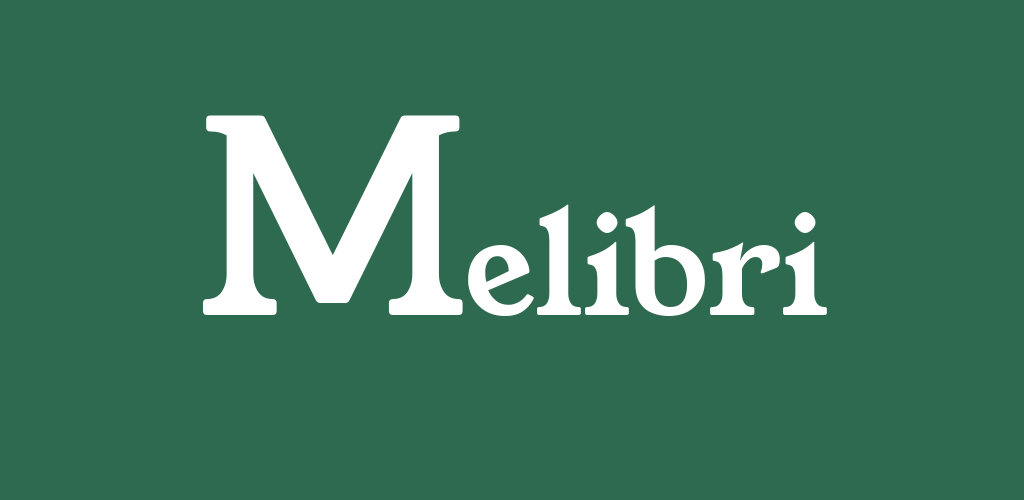
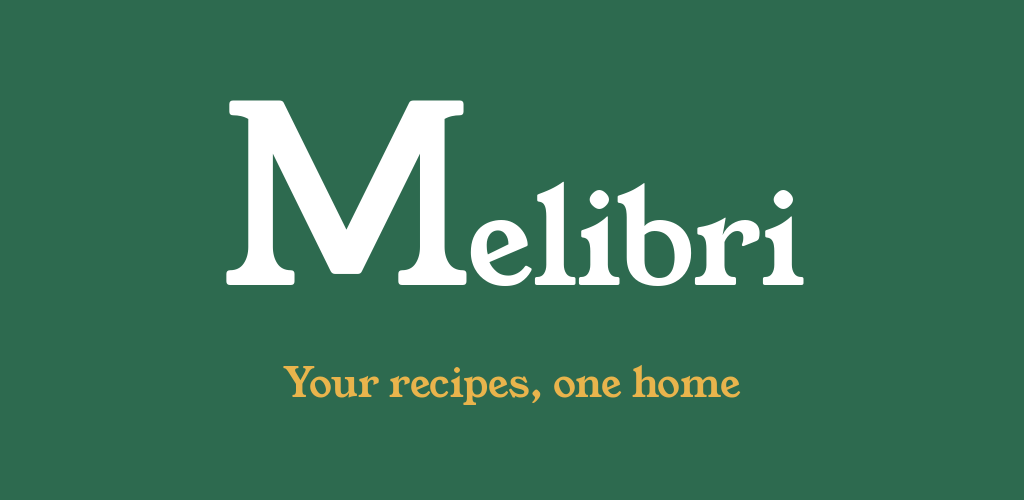
Tagline: 'Your recipes, one home'
Replaces 'my recipe kitchen', which named three nouns without saying
what the app does - it could as easily have been a meal kit or a
cookware shop - and used 'my' in places where the reader is a stranger,
not the user narrating.

Applied everywhere it lives: APP_TAGLINE, all four site pages, the page
title and og:title, the store listing, and both graphics.

Set in sentence case after the comma. 'One' capitalised mid-sentence
reads as a typo rather than a style choice; say if you want it back.

Claude-Session: https://claude.ai/code/session_01St2zqu9cTTQSds7HkwwN9c

Changed region(s): [[0.1875, 0.18, 0.8125, 0.63], [0.2812, 0.72, 0.7188, 0.81]]

diff --git a/site/index.html b/site/index.html
@@ -3,7 +3,7 @@
 <head>
 <meta charset="utf-8">
 <meta name="viewport" content="width=device-width, initial-scale=1">
-<title>Melibri - my recipe kitchen</title>
+<title>Melibri - Your recipes, one home</title>
 <meta name="description" content="Melibri collects the recipes you actually cook - saved from the web, scanned out of a cookbook, or written from scratch.">
 
 <link rel="icon" type="image/png" href="/favicon.png">
@@ -11,7 +11,7 @@
 
 <meta property="og:type" content="website">
 <meta property="og:site_name" content="Melibri">
-<meta property="og:title" content="Melibri - my recipe kitchen">
+<meta property="og:title" content="Melibri - Your recipes, one home">
 <meta property="og:description" content="Melibri collects the recipes you actually cook - saved from the web, scanned out of a cookbook, or written from scratch.">
 <meta property="og:url" content="https://melibri.app/">
 <meta property="og:image" content="https://melibri.app/og.png">
@@ -27,7 +27,7 @@
 <header class="site">
   <div class="inner">
     <a class="brand" href="/">Melibri</a>
-    <div class="tagline">my recipe kitchen</div>
+    <div class="tagline">Your recipes, one home</div>
   </div>
 </header>
 

diff --git a/src/constants/app.js b/src/constants/app.js
@@ -18,7 +18,7 @@ import Constants from 'expo-constants';
 import { Platform } from 'react-native';
 
 export const APP_NAME = 'Melibri';
-export const APP_TAGLINE = 'my recipe kitchen';
+export const APP_TAGLINE = 'Your recipes, one home';
 
 /**
  * Version comes from app.json, never a second hardcoded copy - that is

diff --git a/site/404.html b/site/404.html
@@ -15,7 +15,7 @@
 <header class="site">
   <div class="inner">
     <a class="brand" href="/">Melibri</a>
-    <div class="tagline">my recipe kitchen</div>
+    <div class="tagline">Your recipes, one home</div>
   </div>
 </header>
 

diff --git a/site/privacy.html b/site/privacy.html
@@ -27,7 +27,7 @@
 <header class="site">
   <div class="inner">
     <a class="brand" href="/">Melibri</a>
-    <div class="tagline">my recipe kitchen</div>
+    <div class="tagline">Your recipes, one home</div>
   </div>
 </header>
 

diff --git a/site/terms.html b/site/terms.html
@@ -27,7 +27,7 @@
 <header class="site">
   <div class="inner">
     <a class="brand" href="/">Melibri</a>
-    <div class="tagline">my recipe kitchen</div>
+    <div class="tagline">Your recipes, one home</div>
   </div>
 </header>
 

diff --git a/assets/generate-icons.py b/assets/generate-icons.py
@@ -21,6 +21,7 @@ FONT_PATH = "/mnt/skills/examples/canvas-design/canvas-fonts/YoungSerif-Regular.
 
 # from src/constants/colors.js
 GREEN = (45, 106, 79)      # colors.primary  #2D6A4F
+HONEY = (233, 180, 76)     # colors.accent   #E9B44C
 WHITE = (255, 255, 255)
 
 LETTER = "M"
@@ -146,8 +147,13 @@ def wordmark(draw, centre_x, baseline_y, cap_px, fg=WHITE):
     return total
 
 
+TAGLINE = "Your recipes, one home"
+
 og = Image.new("RGBA", (1200, 630), GREEN + (255,))
-wordmark(ImageDraw.Draw(og), 600, 380, 250)
+_od = ImageDraw.Draw(og)
+wordmark(_od, 600, 350, 240)
+_ot = ImageFont.truetype(FONT_PATH, 46)
+_od.text((600, 440), TAGLINE, font=_ot, fill=HONEY + (255,), anchor="ma")
 save_rgb(og, os.path.join(SITE, "og.png"), bg=GREEN)
 
 
@@ -165,5 +171,8 @@ save_rgb(tile(512, radius_frac=0, height_frac=0.56), os.path.join(PLAY, "icon-51
 # Feature graphic: 1024x500, top of the listing. Play crops it on some
 # surfaces, so the wordmark stays well inside the edges.
 fg_img = Image.new("RGBA", (1024, 500), GREEN + (255,))
-wordmark(ImageDraw.Draw(fg_img), 512, 315, 200)
+_fd = ImageDraw.Draw(fg_img)
+wordmark(_fd, 512, 285, 185)
+_ft = ImageFont.truetype(FONT_PATH, 40)
+_fd.text((512, 355), TAGLINE, font=_ft, fill=HONEY + (255,), anchor="ma")
 save_rgb(fg_img, os.path.join(PLAY, "feature-graphic.png"), bg=GREEN)

diff --git a/store/play/listing.md b/store/play/listing.md
@@ -11,11 +11,11 @@ Melibri
 ## Short description (80 char max)
 
 ```
-Save, scan and cook the recipes you actually use. No ads, no tracking.
+Your recipes, one home. Save, scan and cook - no ads, no tracking.
 ```
 
-69 characters. This is the line shown in search results, so it leads with
-what the app does and closes on the thing that genuinely sets it apart.
+65 characters. Opens on the tagline, then says what the app does and
+closes on the thing that genuinely sets it apart.
 
 ## Full description (4000 char max)
 
